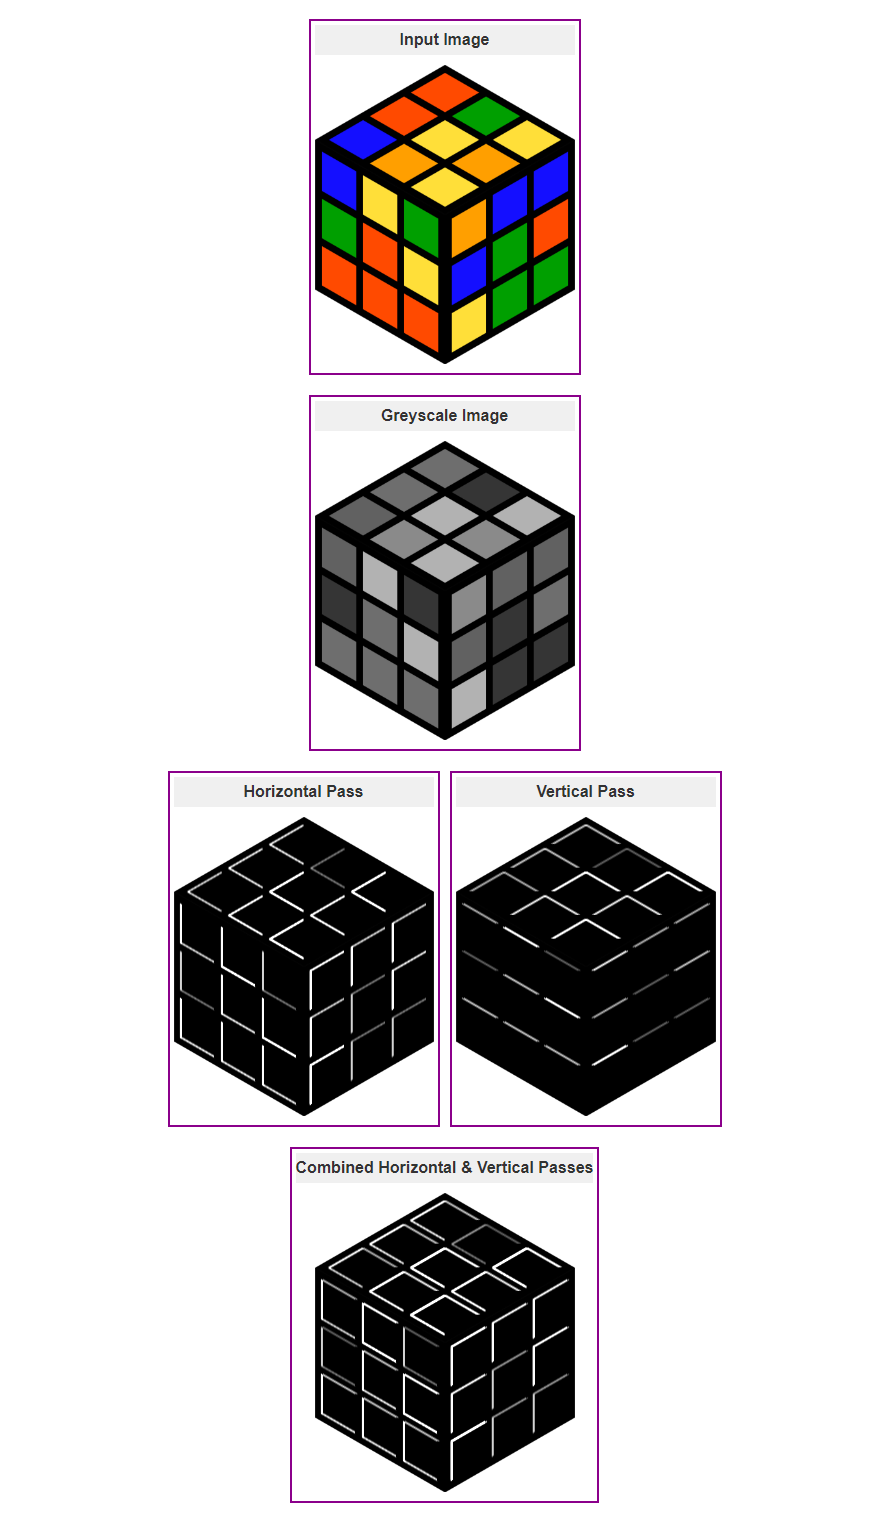
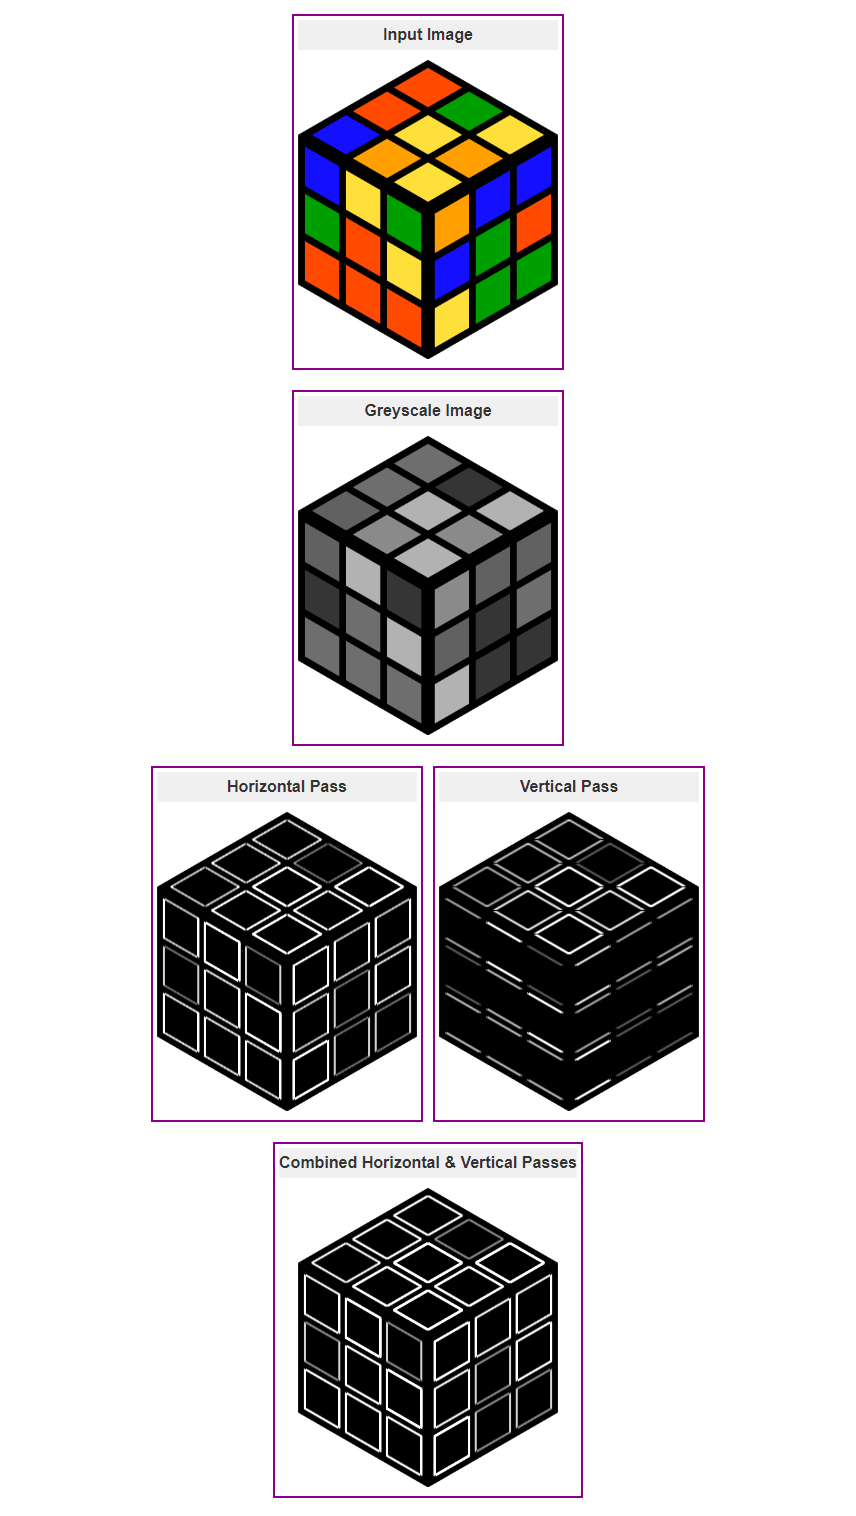
Fixed bug where edge transitions from lighter color to darker color were missed

Changed region(s): [[0.1822, 0.0, 0.8201, 0.9921]]

diff --git a/src/app/services/image.service.ts b/src/app/services/image.service.ts
@@ -40,12 +40,13 @@ export class ImageService {
     const filteredPixelMatrix = JSON.parse(JSON.stringify(pixelMatrix));
     for (let i = 1; i < (pixelMatrix.length - 1); i++) {
       for (let j = 1; j < (pixelMatrix[i].length - 1); j++) {
-        filteredPixelMatrix[i][j] = filter[0][0] * pixelMatrix[i - 1][j - 1]
-          + filter[1][0] * pixelMatrix[i][j - 1]
-          + filter[2][0] * pixelMatrix[i + 1][j - 1]
-          + filter[0][2] * pixelMatrix[i - 1][j + 1]
-          + filter[1][2] * pixelMatrix[i][j + 1]
-          + filter[2][2] * pixelMatrix[i + 1][j + 1];
+        filteredPixelMatrix[i][j] =
+          Math.abs(filter[0][0] * pixelMatrix[i - 1][j - 1]
+            + filter[1][0] * pixelMatrix[i][j - 1]
+            + filter[2][0] * pixelMatrix[i + 1][j - 1]
+            + filter[0][2] * pixelMatrix[i - 1][j + 1]
+            + filter[1][2] * pixelMatrix[i][j + 1]
+            + filter[2][2] * pixelMatrix[i + 1][j + 1]);
       }
     }
     ImageService.translate2DPixelMatrixToImageData(filteredPixelMatrix, imageDataClone);
